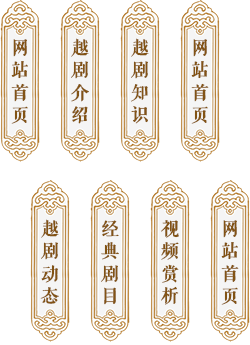
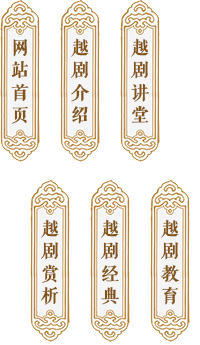
fix direction

diff --git a/lecture.html b/lecture.html
@@ -1,51 +1,48 @@
-<!DOCTYPE html>
+首先是我把  文字类详情页抽出来了
+如果你要做一类二级页面
 
-<head>
-    <title>越剧讲堂</title>
-    <meta charset="UTF-8">
-    <meta name="viewport" content="width=device-width, initial-scale=1">
-    <link rel="stylesheet" href="/styles/lecture.css">
-</head>
+只要在css 里 import（detail.css)
+左边的格式 参加流派里的
+比如html 结构里 只要有 leftcon > maincon {
+ 里面的 h1.title h2 info 格式都是一样的
+}
+右边 li也抽出来了
+这个也在detail.css 里面
+右边想要用列表
+.C BK320(边框类) haveColor （加上haveColor类，边框就会有底色 haveWhiteBG 有白的底色【这个写在base里 边框类下面】）
+下面是TT MM BB ， MM 里面<ul class="listAtRight"> 就有之前
+看一下代码就懂了 没什么用  比较有用的还是 左边的格式 统一了
 
-<body>
-    <div class="bigCon topOut">
-        <div class="con top">
-            <div id="logo">
-                <a href="javascript:void(0);"></a>
-            </div>
-            <div id="nav">
-                <ul>
-                    <li class="n1"><a href="/index.html"></a></li>
-                    <li class="n2"><a href="/introduction.html"></a></li>
-                    <li class="n3"><a href="leature.html" id="on"></a></li>
-                    <!-- <li class="n4"><a href=""></a></li> -->
-                    <li class="n5 pl30"><a href="/dongtai.html"></a></li>
-                    <li class="n6"><a href="/classic.html"></a></li>
-                    <li class="n7"><a href="/enjoy.html"></a></li>
-                    <!-- <li class="n8"><a href=""></a></li> -->
-                </ul>
-            </div>
-        </div>
-    </div>
-    <div class="con TopOut">
-        <div id="topPic">
-            <ul>
-                <li class="topSlide"><img src="images/top1.png"></li>
-                <li class="topSlide"><img src="images/top2.png"></li>
-            </ul>
-        </div>
-    </div>
-    <div class="bigCon main">
-        <div class="con C2">
-            <!-- 左边 -->
-            <div class="leftcon">
-                <h2>唱腔百科</h2>
-                <div class="BK730">
-                    <div class="TT"></div>
-                    <div class="MM">
-                        <div class="con-top">
-                            <img src="images/lib/yjcq.jpg" alt="">
-                            <p>腔，歌唱的音调、旋律，也称腔调、唱腔有时候，也指字后的拖腔。越剧唱腔永不枯竭的源泉来自于丰富多彩的民间音乐和民歌资源。民间音乐和民歌资源是越剧唱腔发展的夯实根基。越剧唱腔的多次变革是在艺术实践过程中创造形成的，在每个时代，都有其独特的唱腔特点。常用的主要腔调是【四工调】，【尺调】，【弦下调】；<a
+其次是百科 页面里 我们不是有一个图 一段文字嘛 那段文字 后面可以更一个更多
+然后 点到一篇文章里 大概的介绍一下 这个XX的内容  然后多放点图
+
+lib 里图的位置 还是得修一修
+lib 左下角 添加贴士 推荐学习越剧百科 了解三种百科 查看经典剧目 跳转到视频欣赏 或欣赏视频时回顾百科内容 查看越剧知识
+
+经典剧目 跳转到视频欣赏
+
+
+视频欣赏 这个任务比较重
+右侧
+（1）答题部分： 唱腔（最好查一查 或者引用明确的视频）、服饰、视频内容相关的一道题
+（2）①有相关唱腔的跳转链接（做的网页上不要出现相关二字 你就推荐就好了（最好时推荐对的，错了就算了））
+     ②同理 服饰也加上
+     ③（下一个视频的连接）
+底部
+评论区
+
+在文章中用又id = ans_$ 来标记题目答案 右侧点击查看答案的时候 跳转到该位置 并高亮答案
+
+文档要开始编写了
+视频等我回去录 但是 大致的访问流程 和文字可以先写起来
+
+
+
+
+730 -60 670
+670-60 610
+
+120 180 190 120                            <p>腔，歌唱的音调、旋律，也称腔调、唱腔有时候，也指字后的拖腔。越剧唱腔永不枯竭的源泉来自于丰富多彩的民间音乐和民歌资源。民间音乐和民歌资源是越剧唱腔发展的夯实根基。越剧唱腔的多次变革是在艺术实践过程中创造形成的，在每个时代，都有其独特的唱腔特点。常用的主要腔调是【四工调】，【尺调】，【弦下调】；<a
                                     href="javascript:void(0)">更多</a></p>
                         </div>
                         <hr>
@@ -163,15 +160,15 @@
     <div class="bigCon foot">
         <div class="copyright">
             <a href="">网站首页</a>
-             | 
+             |
             <a href="">越剧动态</a>
-            | 
+            |
             <a href="">越剧讲堂</a>
-            | 
+            |
             <a href="">越剧教育</a>
-            | 
+            |
             <a href="">经典剧目</a>
-            | 
+            |
             <a href="">视频赏析</a>
         </div>
         <div class="copyright">版权归所有</div>

diff --git a/introduction.html b/introduction.html
@@ -4,25 +4,23 @@
     <title>越剧-首页</title>
     <meta charset="UTF-8">
     <meta name="viewport" content="width=device-width, initial-scale=1">
-    <link rel="stylesheet" href="/styles/introduction.css">
+    <link rel="stylesheet" href="styles/introduction.css">
 </head>
 
 <body>
     <div class="bigCon topOut">
         <div class="con top">
             <div id="logo">
-                <a href="javascript:void(0);"></a>
+                <a href="index.html"></a>
             </div>
             <div id="nav">
                 <ul>
-                    <li class="n1"><a href="/index.html"></a></li>
-                    <li class="n2"><a href="/introduction.html" id="on"></a></li>
-                    <li class="n3"><a href="/knowledge.html"></a></li>
-                    <!-- <li class="n4"><a href=""></a></li> -->
-                    <li class="n5 pl30"><a href="/dongtai.html"></a></li>
-                    <li class="n6"><a href="/classic.html"></a></li>
-                    <li class="n7"><a href="/enjoy.html"></a></li>
-                    <!-- <li class="n8"><a href=""></a></li> -->
+                    <li class="n1"><a href="index.html"></a></li>
+                    <li class="n2"><a href="introduction.html" id="on"></a></li>
+                    <li class="n3"><a href="lecture.html"></a></li>
+                    <li class="n5 pl30"><a href="enjoy.html"></a></li>
+                    <li class="n6"><a href="classic.html"></a></li>
+                    <li class="n7"><a href="education.html"></a></li>
                 </ul>
             </div>
         </div>

diff --git a/enjoy.html b/enjoy.html
@@ -4,25 +4,23 @@
     <title>越剧-首页</title>
     <meta charset="UTF-8">
     <meta name="viewport" content="width=device-width, initial-scale=1">
-    <link rel="stylesheet" href="./styles/classic.css">
+    <link rel="stylesheet" href="styles/classic.css">
 </head>
 
 <body>
     <div class="bigCon topOut">
         <div class="con top">
             <div id="logo">
-                <a href="javascript:void(0);"></a>
+                <a href="index.html"></a>
             </div>
             <div id="nav">
                 <ul>
-                    <li class="n1"><a href="./index.html"></a></li>
-                    <li class="n2"><a href="./introduction.html"></a></li>
-                    <li class="n3"><a href="./knowledge.html"></a></li>
-                    <!-- <li class="n4"><a href=""></a></li> -->
-                    <li class="n5 pl30"><a href="/dongtai.html"></a></li>
-                    <li class="n6"><a href="./classic.html"></a></li>
-                    <li class="n7"><a href="./enjoy.html" id="on"></a></li>
-                    <!-- <li class="n8"><a href=""></a></li> -->
+                    <li class="n1"><a href="index.html"></a></li>
+                    <li class="n2"><a href="introduction.html"></a></li>
+                    <li class="n3"><a href="lecture.html"></a></li>
+                    <li class="n5 pl30"><a href="enjoy.html" id="on"></a></li>
+                    <li class="n6"><a href="classic.html"></a></li>
+                    <li class="n7"><a href="education.html"></a></li>
                 </ul>
             </div>
         </div>

diff --git a/classic.html b/classic.html
@@ -4,24 +4,23 @@
     <title>越剧-首页</title>
     <meta charset="UTF-8">
     <meta name="viewport" content="width=device-width, initial-scale=1">
-    <link rel="stylesheet" href="/styles/classic.css">
-    <!-- <link rel="stylesheet" href="./styles/detail.css"> -->
+    <link rel="stylesheet" href="styles/classic.css">
 </head>
 
 <body>
     <div class="bigCon topOut">
         <div class="con top">
             <div id="logo">
-                <a href="javascript:void(0);"></a>
+                <a href="index.html"></a>
             </div>
             <div id="nav">
                 <ul>
                     <li class="n1"><a href="index.html"></a></li>
                     <li class="n2"><a href="introduction.html"></a></li>
                     <li class="n3"><a href="lecture.html"></a></li>
-                    <li class="n7 pl30"><a href="enjoy.html"></a></li>
+                    <li class="n5 pl30"><a href="enjoy.html"></a></li>
                     <li class="n6"><a href="classic.html" id="on"></a></li>
-                    <li class="n5"><a href="education.html"></a></li>
+                    <li class="n7"><a href="education.html"></a></li>
                 </ul>
             </div>
         </div>

diff --git a/index.html b/index.html
@@ -4,23 +4,23 @@
     <title>越剧首页</title>
     <meta charset="UTF-8">
     <meta name="viewport" content="width=device-width, initial-scale=1">
-    <link rel="stylesheet" href="../styles/index.css">
+    <link rel="stylesheet" href="styles/index.css">
 </head>
 
 <body>
     <div class="bigCon topOut">
         <div class="con top">
             <div id="logo">
-                <a href="javascript:void(0);"></a>
+                <a href="index.html"></a>
             </div>
             <div id="nav">
                 <ul>
                     <li class="n1"><a href="index.html" id="on"></a></li>
                     <li class="n2"><a href="introduction.html"></a></li>
                     <li class="n3"><a href="lecture.html"></a></li>
-                    <li class="n7 pl30"><a href="enjoy.html"></a></li>
+                    <li class="n5 pl30"><a href="enjoy.html"></a></li>
                     <li class="n6"><a href="classic.html"></a></li>
-                    <li class="n5"><a href="education.html"></a></li>
+                    <li class="n7"><a href="education.html"></a></li>
                 </ul>
             </div>
         </div>
